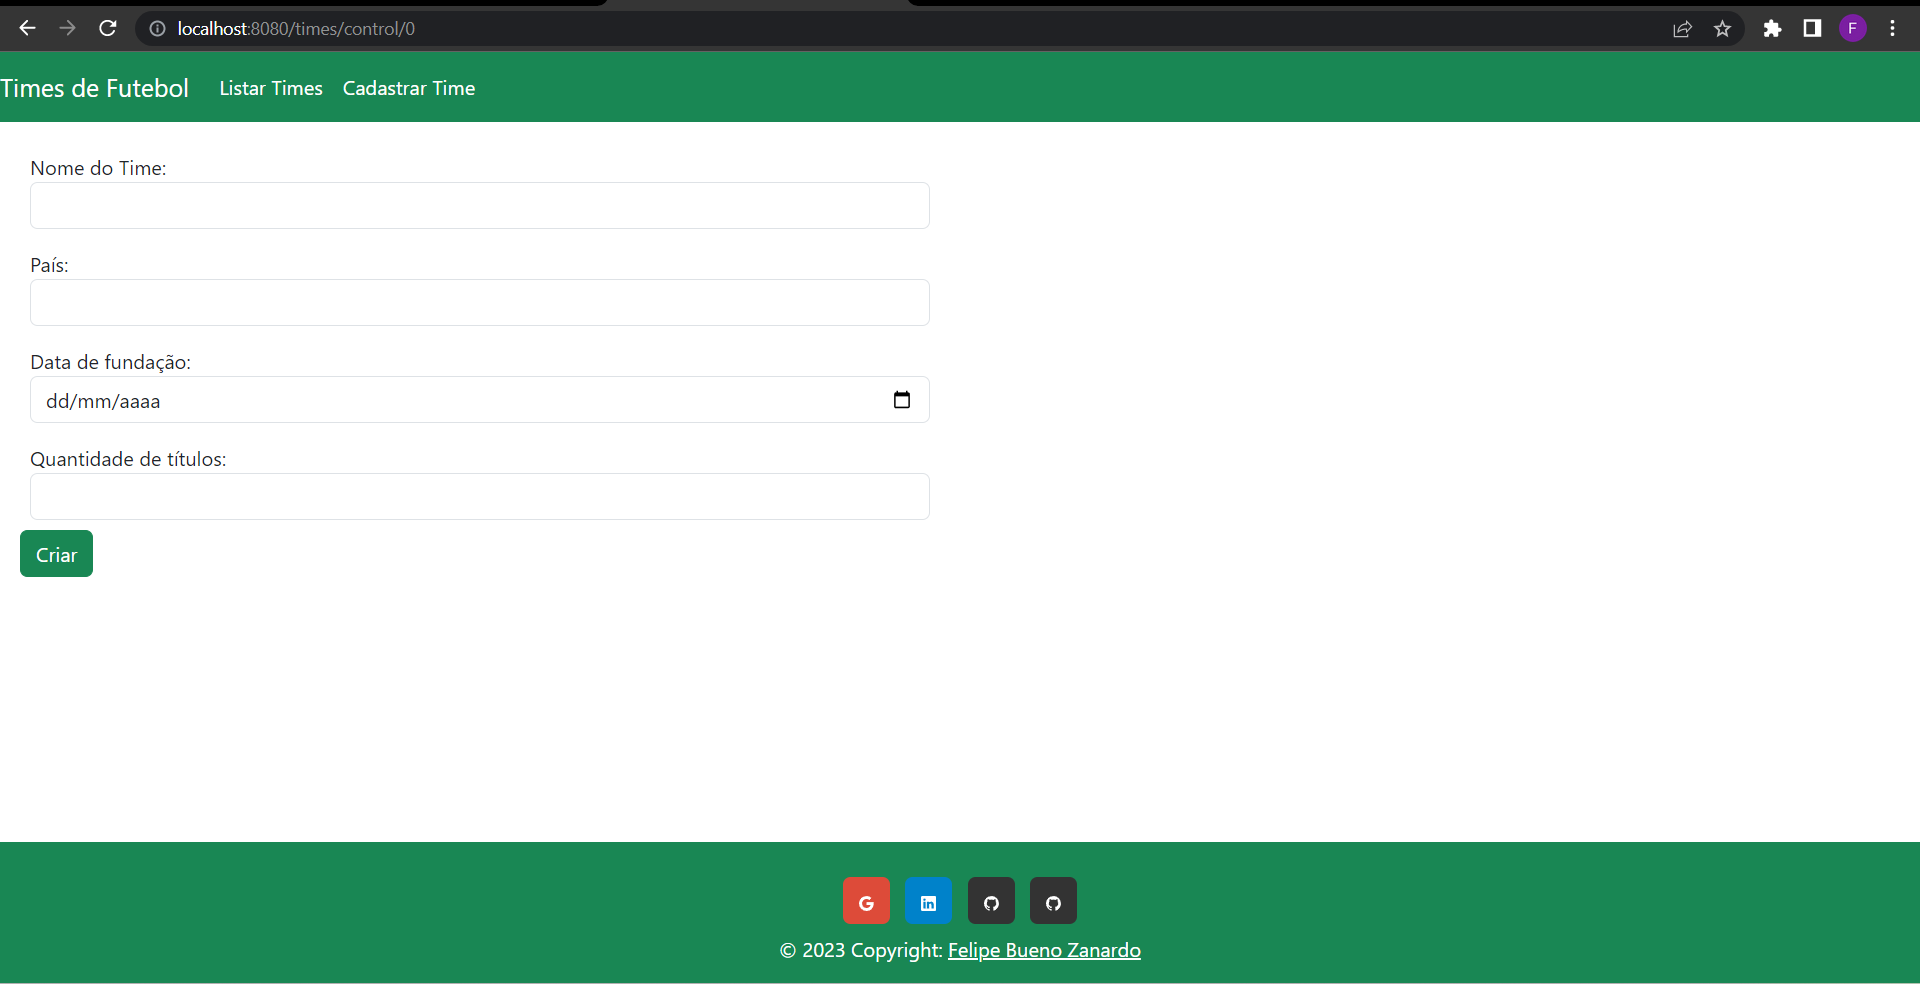
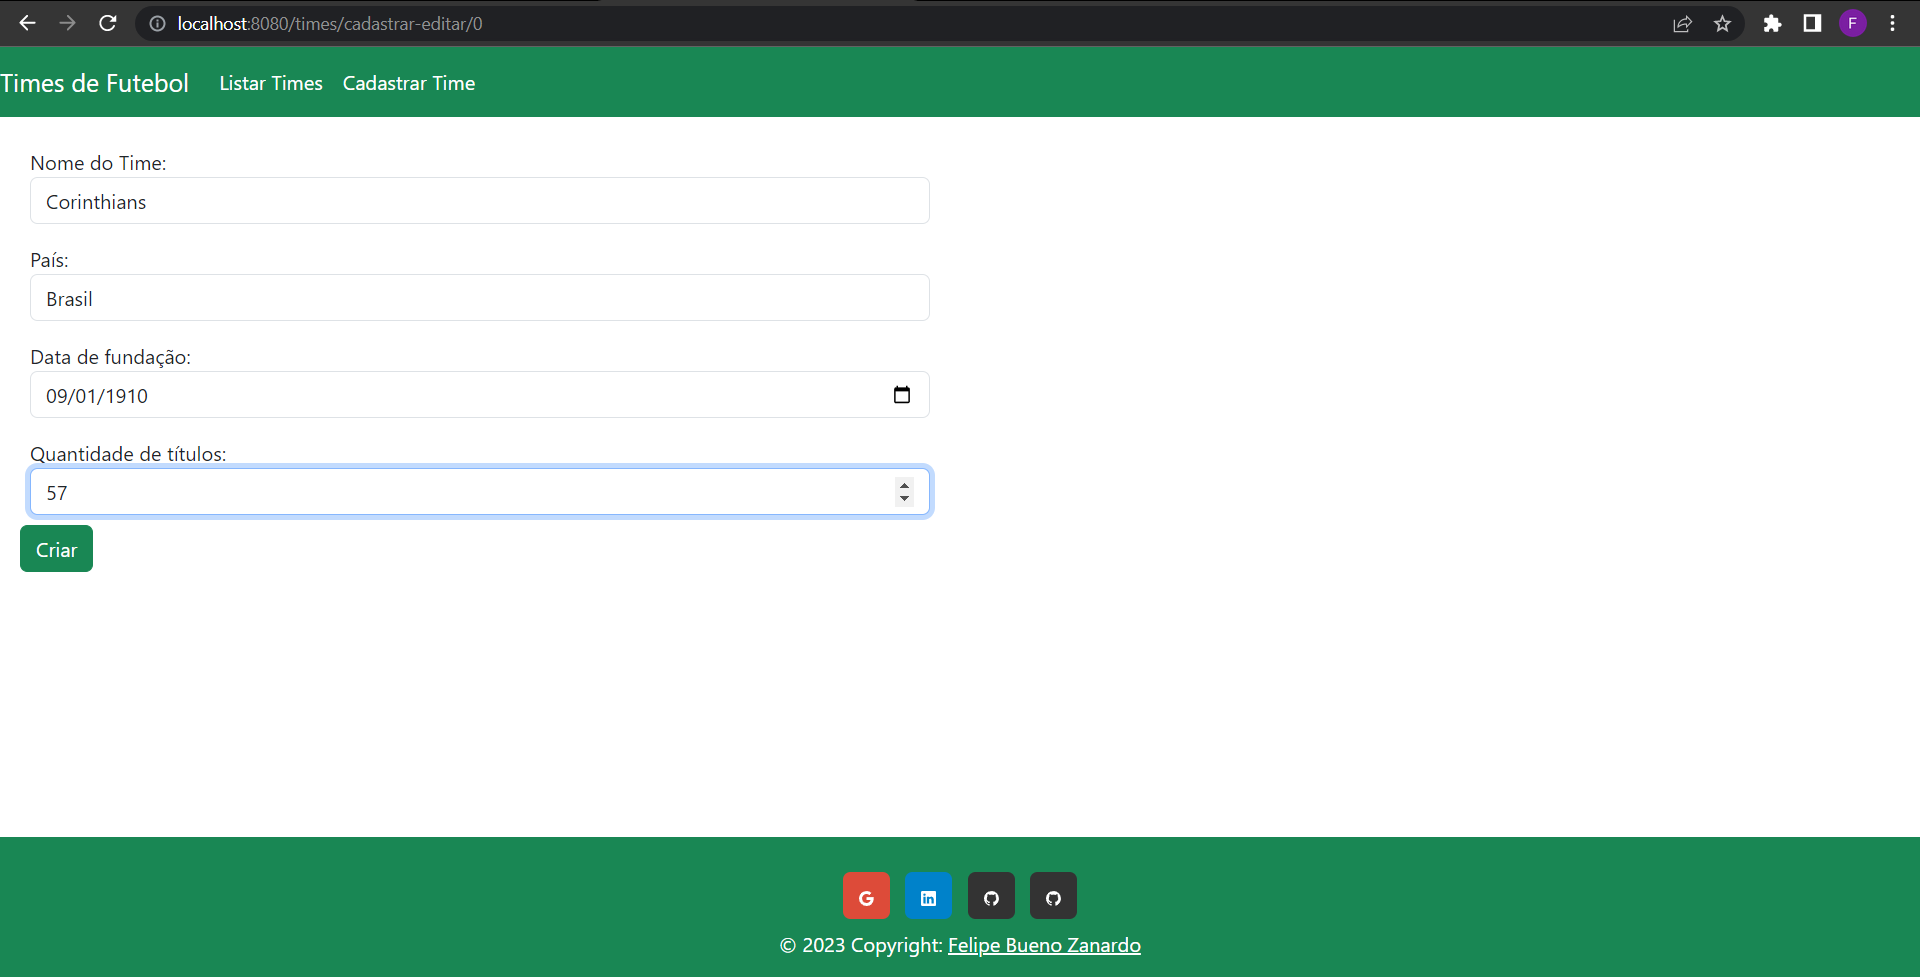
mudança na url de controle

diff --git a/projeto-web-i - thymeleaf/src/main/resources/templates/home.html b/projeto-web-i - thymeleaf/src/main/resources/templates/home.html
@@ -39,7 +39,7 @@
                     Os dados e estatísticas podem ser encontrados em <a href="https://www.ogol.com.br/home.php">Ogol</a>
                     buscando pelo nome do time e clicando em Estatísticas.
                 </p>
-                <p><a class="btn btn-success" href="/times/control/0" role="button">Ver detalhes &raquo;</a></p>
+                <p><a class="btn btn-success" href="/times/cadastrar-editar/0" role="button">Ver detalhes &raquo;</a></p>
             </div>
             <div class="col-md-4">
                 <h2>Listar Times</h2>

diff --git a/projeto-web-i - thymeleaf/src/main/resources/templates/listar_times.html b/projeto-web-i - thymeleaf/src/main/resources/templates/listar_times.html
@@ -43,7 +43,7 @@
         <td th:text="${{time.fundacao}}"></td>
         <td th:text="${{time.quantidadeTitulos}}"></td>
         <td>
-          <form th:action="@{/times/control/{id}(id=${time.id})}" th:method="get">
+          <form th:action="@{/times/cadastrar-editar/{id}(id=${time.id})}" th:method="get">
             <button type="submit" class="btn btn-primary edit">Editar</button>
           </form>
         </td>

diff --git a/projeto-web-i - thymeleaf/src/main/resources/templates/navbar.html b/projeto-web-i - thymeleaf/src/main/resources/templates/navbar.html
@@ -9,7 +9,7 @@
         <a class="nav-link text-white" href="/times/all">Listar Times</a>
       </li>
       <li class="nav-item">
-        <a class="nav-link text-white" href="/times/control/0">Cadastrar Time</a>
+        <a class="nav-link text-white" href="/times/cadastrar-editar/0">Cadastrar Time</a>
       </li>
     </ul>
   </div>

diff --git a/projeto-web-i - thymeleaf/src/main/java/com/ada/projetowebi/controller/TimeController.java b/projeto-web-i - thymeleaf/src/main/java/com/ada/projetowebi/controller/TimeController.java
@@ -123,7 +123,7 @@ public class TimeController {
         return "redirect:all";
     }
 
-    @GetMapping("/control/{id}")
+    @GetMapping("/cadastrar-editar/{id}")
     public String controlar(@PathVariable Long id, Model model){
         if(id == 0){
             model.addAttribute("time", new Time());
